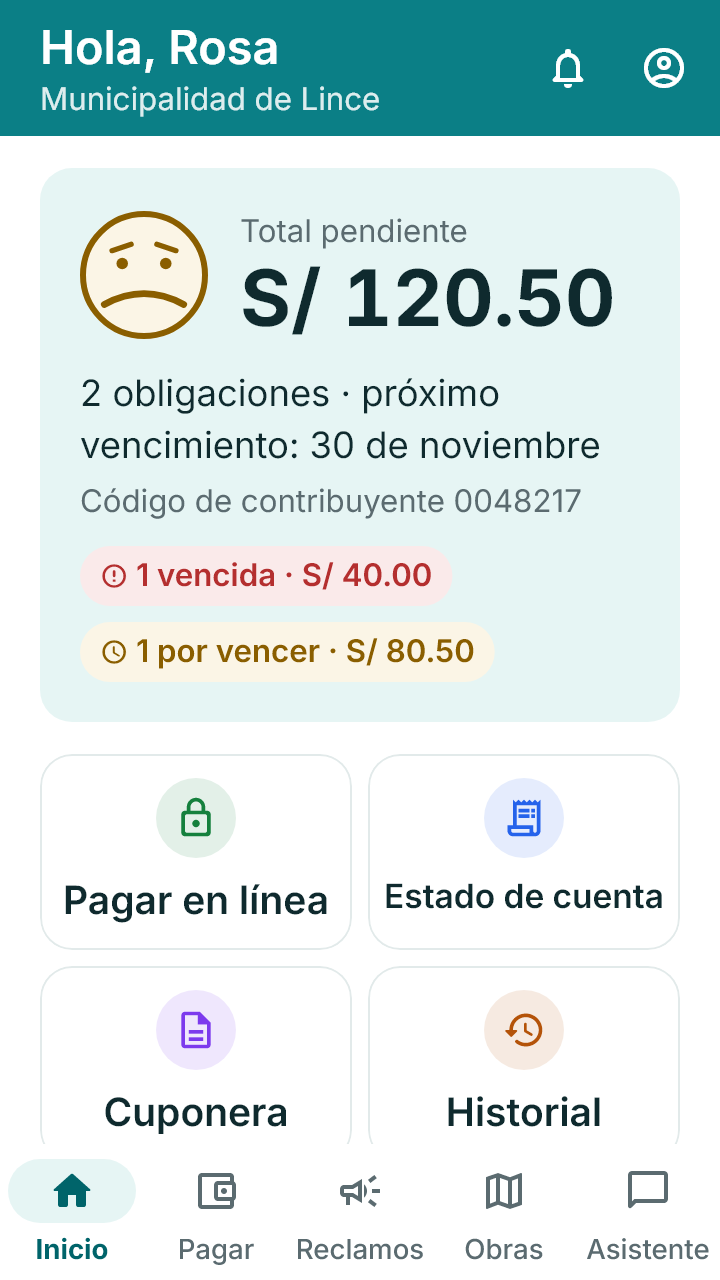
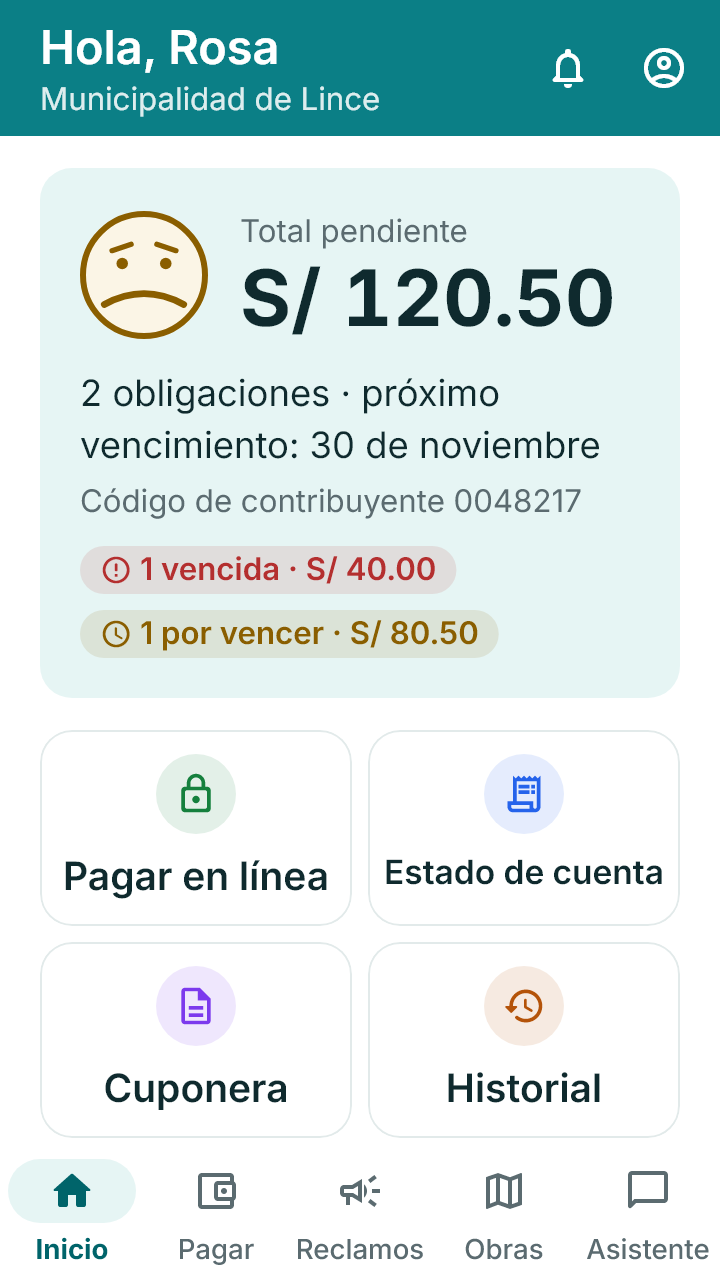
feat(flutter): insignia de estado de 24 px con fondo al 12 %
Pastilla de 24 px de alto, ícono de línea de 16 px, Inter 12 semibold y
fondo del color de estado al 12 %, con medidas en el tema. Test de
desbordes en reclamos, deudas, obras e inicio con texto al 100, 130 y
200 %. Capturas de diseño regeneradas.

Changed region(s): [[0.0611, 0.4062, 0.9472, 0.9062]]

diff --git a/apps/almira_flutter/test/insignias_test.dart b/apps/almira_flutter/test/insignias_test.dart
@@ -1,0 +1,110 @@
+// Las insignias de estado no desbordan sus filas en las pantallas donde aparecen
+// (reclamos, deudas, obras e inicio), en un teléfono de 360 × 640 con la tipografía
+// real y el texto del sistema al 100 %, 130 % y 200 %.
+import 'package:almira_flutter/app/app.dart';
+import 'package:almira_flutter/app/router.dart';
+import 'package:almira_flutter/app/theme/app_spacing.dart';
+import 'package:almira_flutter/core/widgets/componentes.dart';
+import 'package:almira_flutter/features/auth/servicio_auth.dart';
+import 'package:almira_flutter/shared/services/proveedores.dart';
+import 'package:almira_flutter/shared/services/repositorio_demo.dart';
+import 'package:flutter/material.dart';
+import 'package:flutter/services.dart';
+import 'package:flutter_riverpod/flutter_riverpod.dart';
+import 'package:flutter_test/flutter_test.dart';
+import 'package:shared_preferences/shared_preferences.dart';
+
+final _hoy = DateTime(2026, 11, 11, 10);
+
+Widget _app(SharedPreferences preferencias) => ProviderScope(
+      overrides: [
+        preferenciasProvider.overrideWithValue(preferencias),
+        repositorioProvider.overrideWithValue(RepositorioDemo(preferencias, reloj: () => _hoy)),
+        servicioAuthProvider.overrideWithValue(ServicioAuthDemo(preferencias)),
+        relojProvider.overrideWithValue(() => _hoy),
+      ],
+      child: const AlmiraApp(),
+    );
+
+/// Con la tipografía real: la de prueba dibuja cada letra como un cuadrado y desborda sola.
+Future<void> _cargarInter() async {
+  final cargador = FontLoader('Inter');
+  for (final peso in ['400Regular', '500Medium', '600SemiBold', '700Bold']) {
+    cargador.addFont(rootBundle.load('assets/fonts/Inter_$peso.ttf'));
+  }
+  await cargador.load();
+}
+
+/// Completa el ingreso de la demostración con el texto al 100 %.
+Future<void> _entrar(WidgetTester tester, SharedPreferences preferencias) async {
+  await tester.pumpWidget(_app(preferencias));
+  await tester.pumpAndSettle();
+  await tester.ensureVisible(find.text('Entrar a la demostración'));
+  await tester.pumpAndSettle();
+  await tester.tap(find.text('Entrar a la demostración'));
+  await tester.pumpAndSettle();
+  await tester.scrollUntilVisible(find.text('Continuar'), 200);
+  await tester.tap(find.text('Continuar'));
+  await tester.pumpAndSettle();
+  await tester.tap(find.text('Ahora no'));
+  await tester.pumpAndSettle();
+  await tester.enterText(find.byType(TextFormField).first, '987654321');
+  await tester.tap(find.text('Recibir código'));
+  await tester.pumpAndSettle();
+  await tester.enterText(find.byType(TextFormField).last, '123456');
+  await tester.tap(find.text('Verificar'));
+  await tester.pumpAndSettle();
+  await tester.scrollUntilVisible(find.text('Continuar'), 200);
+  await tester.tap(find.text('Continuar'));
+  await tester.pumpAndSettle();
+}
+
+void main() {
+  setUpAll(_cargarInter);
+
+  for (final escala in [1.0, 1.3, 2.0]) {
+    testWidgets('insignias sin desbordes (texto ×$escala)', (tester) async {
+      tester.view.physicalSize = const Size(1080, 1920);
+      tester.view.devicePixelRatio = 3;
+      addTearDown(tester.view.reset);
+      addTearDown(tester.platformDispatcher.clearAllTestValues);
+
+      SharedPreferences.setMockInitialValues({});
+      final preferencias = await SharedPreferences.getInstance();
+      await _entrar(tester, preferencias);
+
+      // Vuelve a abrir la app, ya con el ingreso hecho, con el tamaño de texto a probar.
+      tester.platformDispatcher.textScaleFactorTestValue = escala;
+      await tester.pumpWidget(const SizedBox());
+      await tester.pumpWidget(_app(preferencias));
+      await tester.pumpAndSettle();
+      expect(find.text('Hola, Rosa'), findsOneWidget);
+
+      final router = ProviderScope.containerOf(tester.element(find.byType(AlmiraApp))).read(routerProvider);
+      for (final ruta in [
+        Rutas.inicio,
+        Rutas.reclamos,
+        Rutas.reclamo('demo-reclamo-1842'),
+        Rutas.reclamo('demo-reclamo-1790'),
+        Rutas.pagos,
+        Rutas.deuda('demo-multa'),
+        Rutas.deuda('demo-predial'),
+        Rutas.obras,
+        Rutas.obra('demo-obra-pistas'),
+        Rutas.obra('demo-obra-parque'),
+      ]) {
+        router.go(ruta);
+        await tester.pumpAndSettle();
+        // Un desborde de diseño se reporta como excepción.
+        expect(tester.takeException(), isNull, reason: ruta);
+        final insignias = find.byType(Insignia);
+        expect(insignias, findsWidgets, reason: ruta);
+        if (escala == 1.0) {
+          for (final elemento in insignias.evaluate()) {
+            expect(elemento.size!.height, AppSpacing.altoInsignia, reason: ruta);
+          }
+        }
+      }
+    });
+  }
+}

diff --git a/apps/almira_flutter/lib/core/widgets/componentes.dart b/apps/almira_flutter/lib/core/widgets/componentes.dart
@@ -78,27 +78,29 @@ class Insignia extends StatelessWidget {
   final Tono tono;
   final IconData? icono;
 
+  /// Pastilla de 24 de alto (crece si el texto del teléfono es más grande),
+  /// fondo del color de estado al 12 % y texto e ícono en su tono oscuro.
   @override
   Widget build(BuildContext context) => Container(
-        padding: const EdgeInsets.symmetric(horizontal: 10, vertical: 5),
+        constraints: const BoxConstraints(minHeight: AppSpacing.altoInsignia),
+        padding: const EdgeInsets.symmetric(horizontal: 10, vertical: 2),
         decoration: BoxDecoration(
-          color: tono.fondo,
+          color: tono.texto.withValues(alpha: AppColors.alfaFondoInsignia),
           borderRadius: BorderRadius.circular(AppRadius.pastilla),
         ),
         child: Row(
           mainAxisSize: MainAxisSize.min,
           children: [
             if (icono != null) ...[
-              Icon(icono, size: 14, color: tono.texto),
-              const SizedBox(width: 4),
+              Icon(icono, size: AppSpacing.iconoInsignia, color: tono.texto),
+              const SizedBox(width: AppSpacing.xs),
             ],
             Flexible(
               child: Text(
                 texto,
-                style: Theme.of(context).textTheme.labelSmall!.copyWith(
-                      color: tono.texto,
-                      fontWeight: FontWeight.w600,
-                    ),
+                maxLines: 1,
+                overflow: TextOverflow.ellipsis,
+                style: Theme.of(context).textTheme.labelMedium!.copyWith(color: tono.texto),
               ),
             ),
           ],

diff --git a/apps/almira_flutter/lib/app/theme/app_spacing.dart b/apps/almira_flutter/lib/app/theme/app_spacing.dart
@@ -12,6 +12,10 @@ abstract final class AppSpacing {
 
   /// Alto mínimo de un control táctil.
   static const double toque = 48;
+
+  /// Insignia de estado: alto de la pastilla e ícono de línea.
+  static const double altoInsignia = 24;
+  static const double iconoInsignia = 16;
 }
 
 abstract final class AppRadius {

diff --git a/apps/almira_flutter/lib/app/theme/app_colors.dart b/apps/almira_flutter/lib/app/theme/app_colors.dart
@@ -58,4 +58,7 @@ abstract final class AppColors {
   static const warningSoft = Color(0xFFFBF5E6);
   static const error = Color(0xFFB42F2F);
   static const errorSoft = Color(0xFFFAEAEA);
+
+  /// Opacidad del color de estado en el fondo de una insignia (12 %).
+  static const double alfaFondoInsignia = 0.12;
 }
